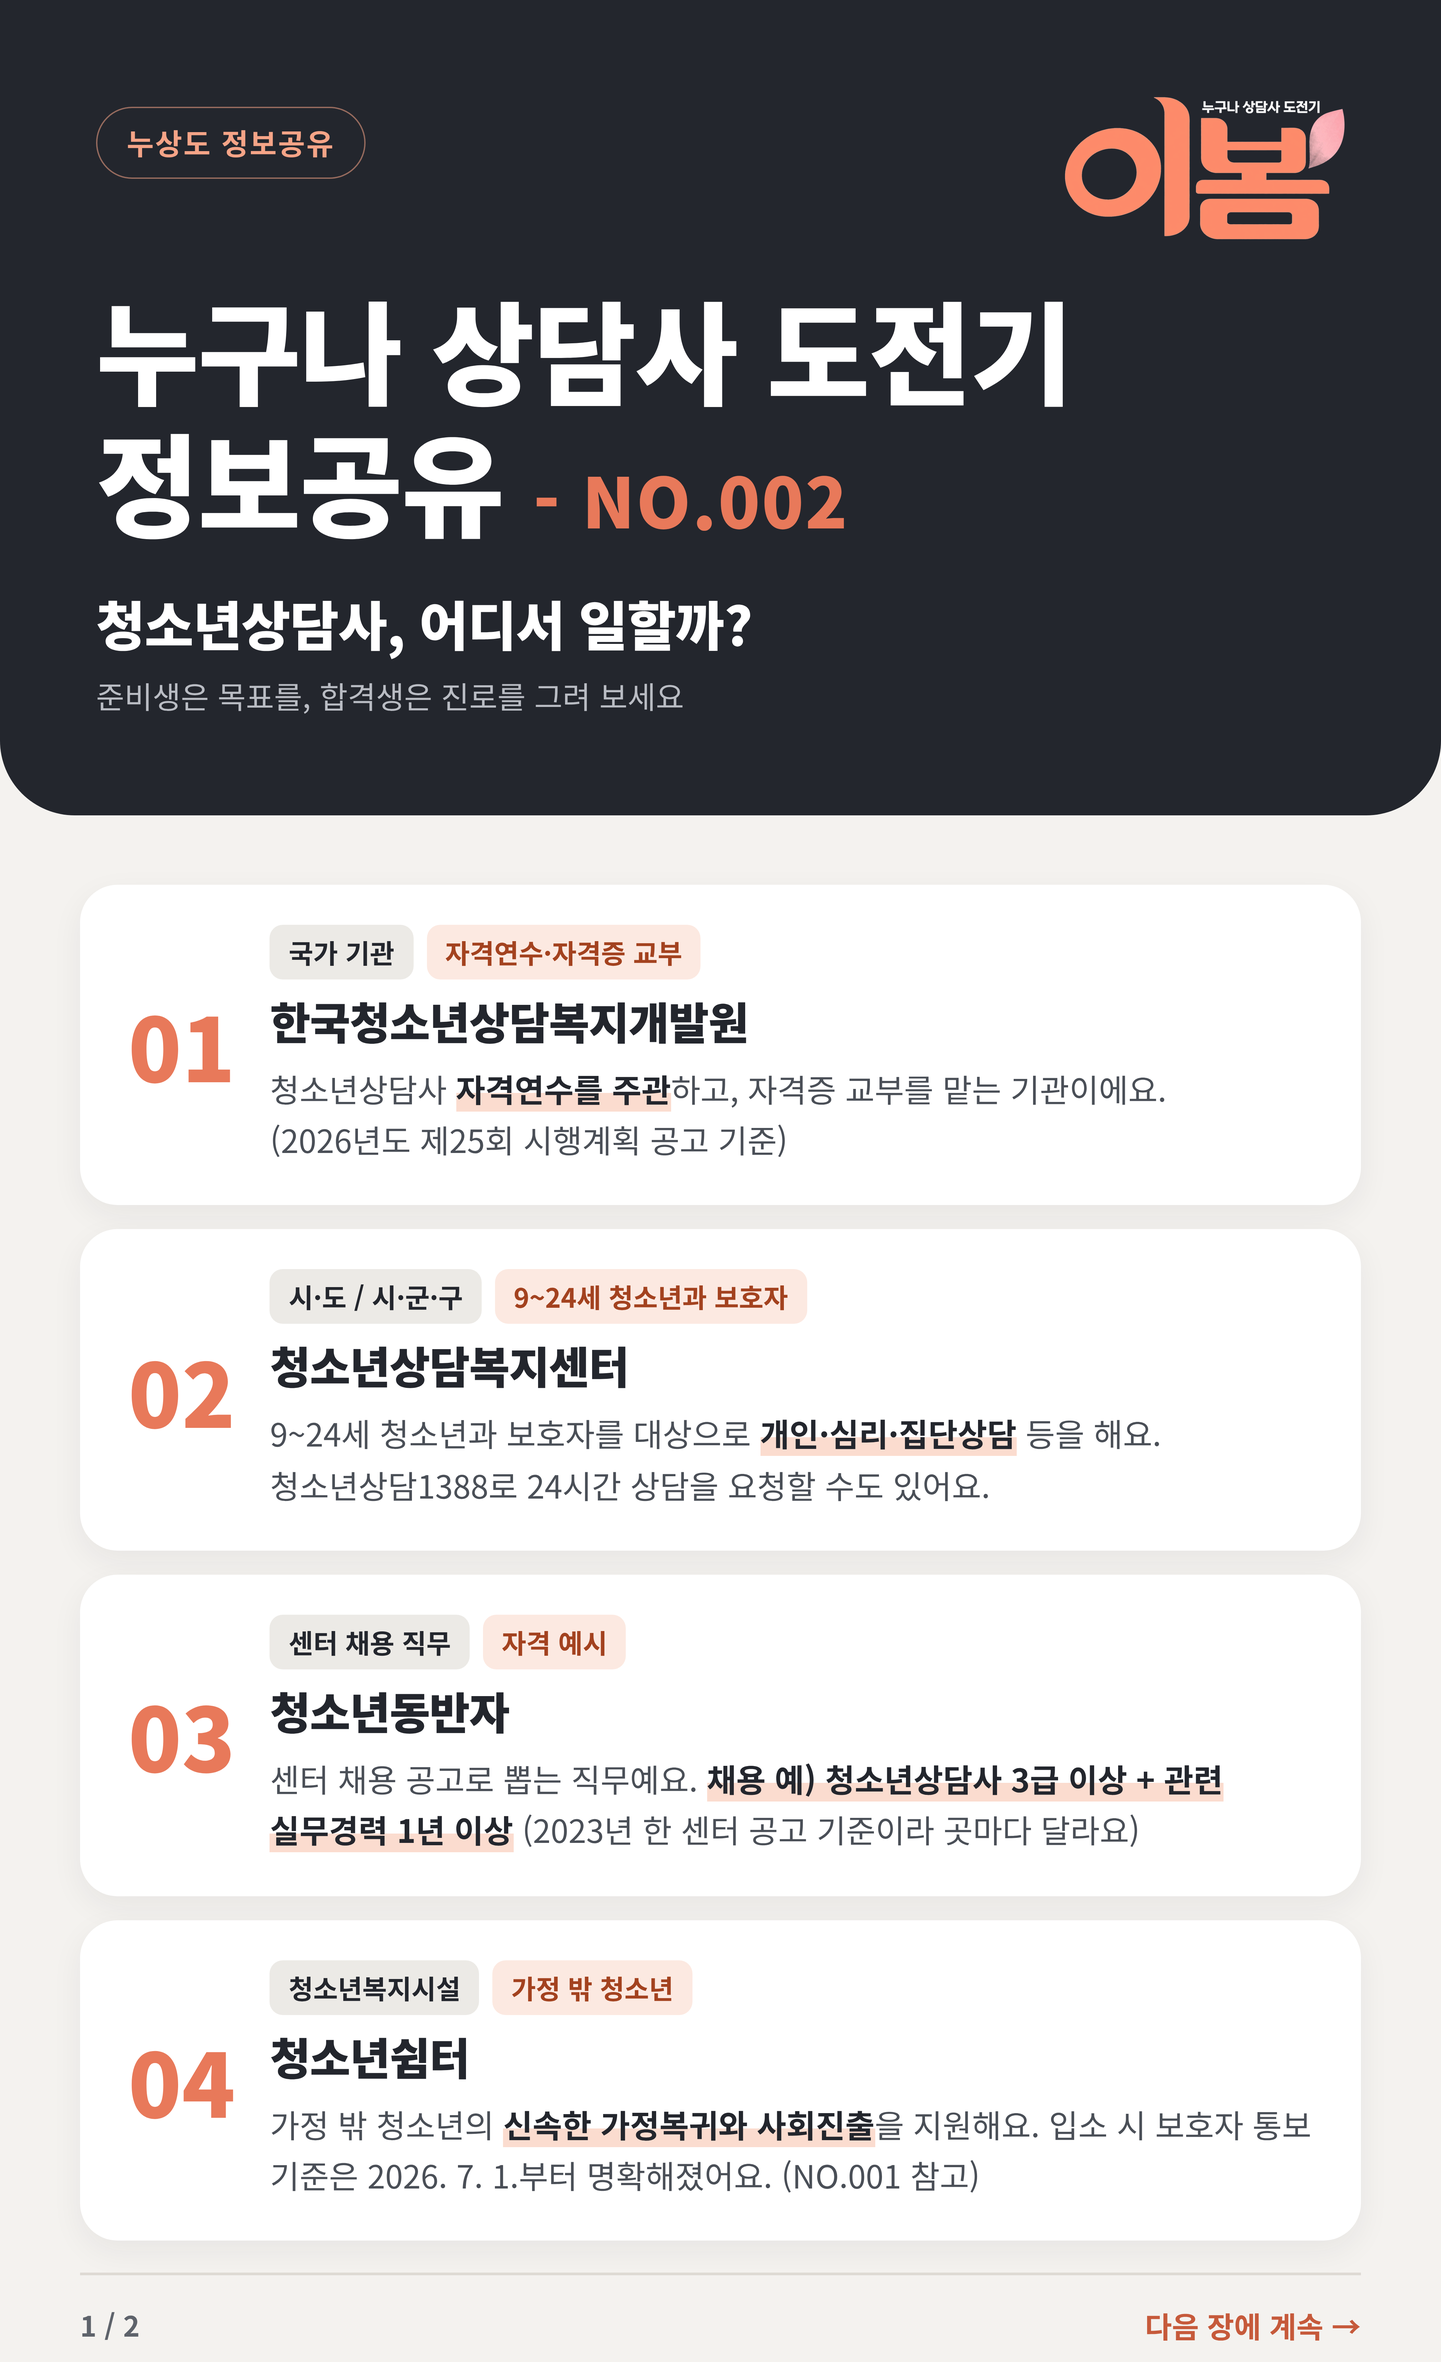
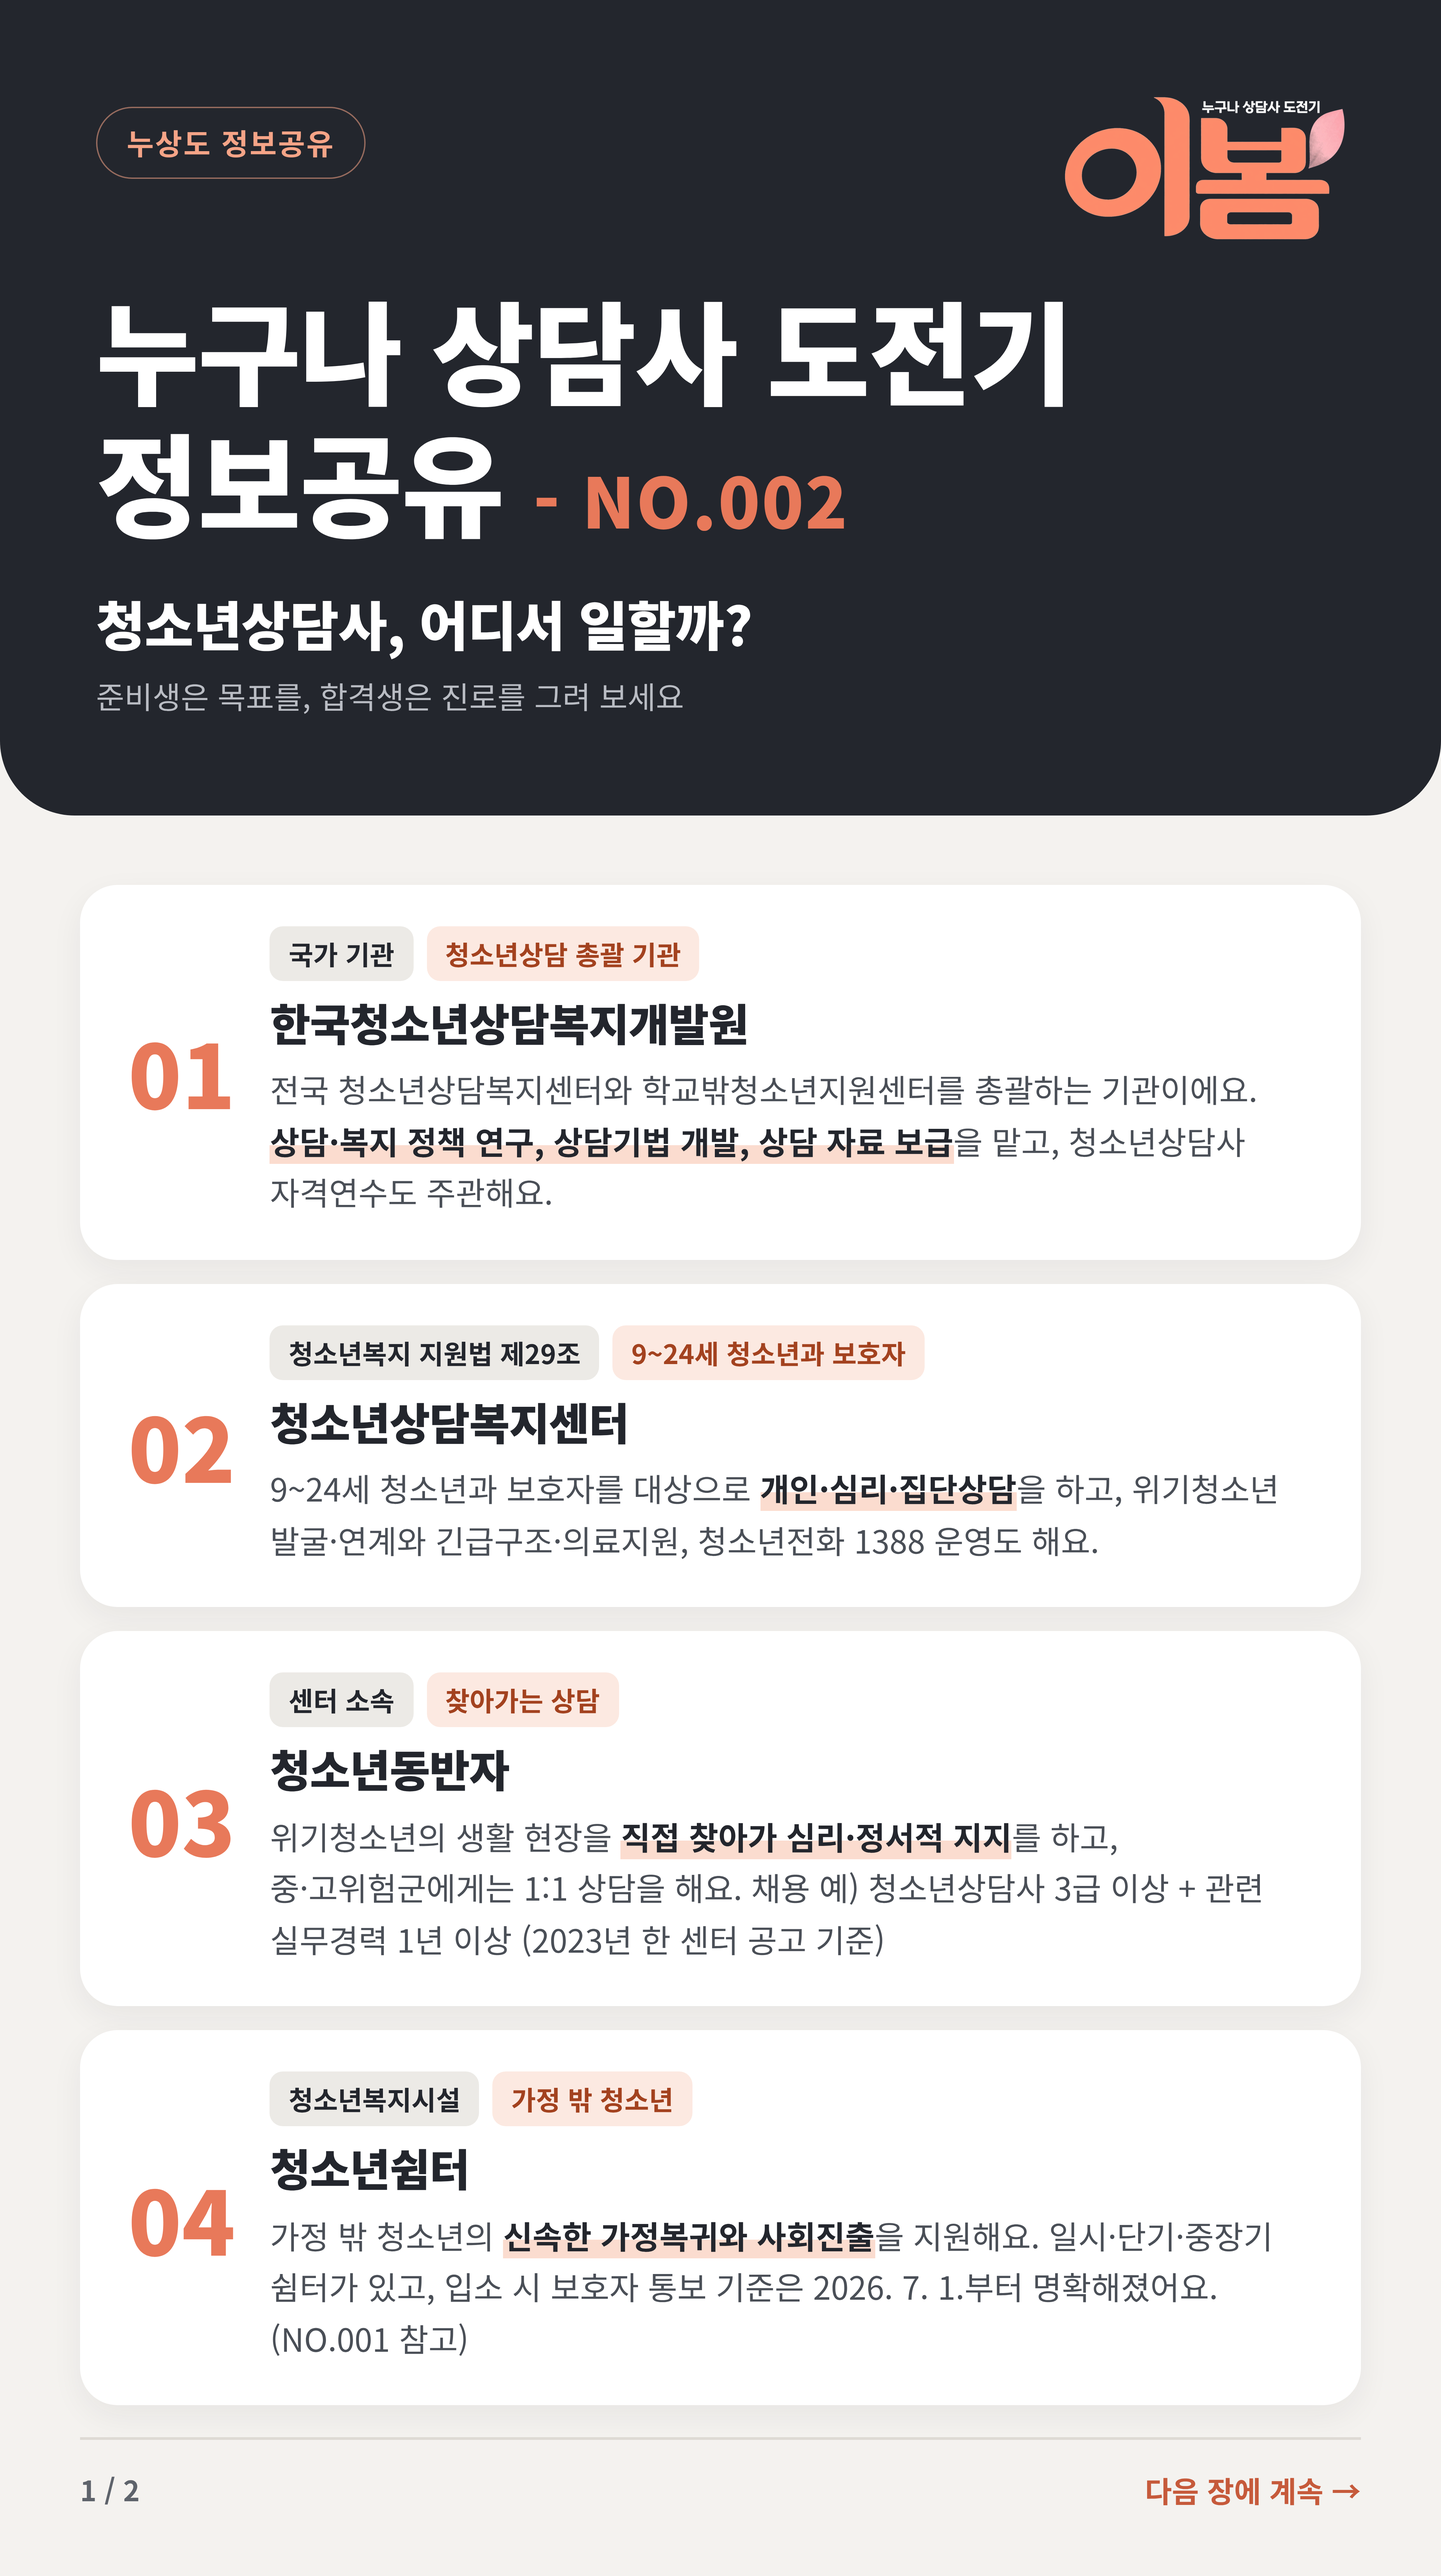
NO.002 근거 재확인 후 기관 설명 복원(쉼터 유형·동반자·디딤센터 등), 실무경력 인정 기관 목록 추가
Claude-Session: https://claude.ai/code/session_01QL5gwSnyMoieBCHz4hv6ax

diff --git a/index.html b/index.html
@@ -163,8 +163,8 @@ const POSTS = [
     kw:'1급 2급 3급 급수 차이 응시자격 학사 석사 박사 전문학사 고졸 실무경력 상담관련분야 시험과목 필수 선택 발달심리 집단상담 심리측정 상담이론 학습이론 청소년이해론 청소년수련활동론 이상심리 상담연구방법론 진로상담 가족상담 학업상담 비행상담 성상담 약물상담 위기상담 청소년 관련 법과 행정 사례지도 합격기준 40점 60점 25문항 자격연수 100시간 필기 면접',
     pages:['003-1','003-2'] },
   { no:'002', fname:'정보공유_청소년상담사일하는곳', date:'2026-10-16', cat:'현장·진로', title:'청소년상담사, 어디서 일할까?',
-    sum:'개발원, 청소년상담복지센터, 쉼터, 자립지원관, 꿈드림, 디딤센터가 하는 일을 확인된 내용만 정리했어요.',
-    kw:'취업 진로 근무처 기관 한국청소년상담복지개발원 청소년상담복지센터 1388 청소년동반자 채용 청소년쉼터 청소년자립지원관 학교밖청소년지원센터 꿈드림 검정고시 국립청소년디딤센터 정서 행동 자격연수',
+    sum:'청소년상담복지센터부터 쉼터, 꿈드림, 디딤센터까지 대표 기관과 하는 일, 상담 실무경력 인정 기관을 정리했어요.',
+    kw:'취업 진로 근무처 기관 한국청소년상담복지개발원 청소년상담복지센터 1388 청소년동반자 찾아가는 상담 채용 청소년쉼터 일시 단기 중장기 청소년자립지원관 학교밖청소년지원센터 꿈드림 검정고시 국립청소년디딤센터 정서 행동 자격연수 Wee프로젝트 상담 실무경력 인정 기관',
     pages:['002-1','002-2'] },
   { no:'001', fname:'정보공유_법제도변화', date:'2026-10-14', cat:'법·제도', title:'2026년 꼭 알아야 할 청소년 법·제도 변화',
     sum:'부처 이름 변경, 쉼터 입소 시 보호자 통보 예외, 친족 성범죄 공소시효 폐지 등 다섯 가지.',
